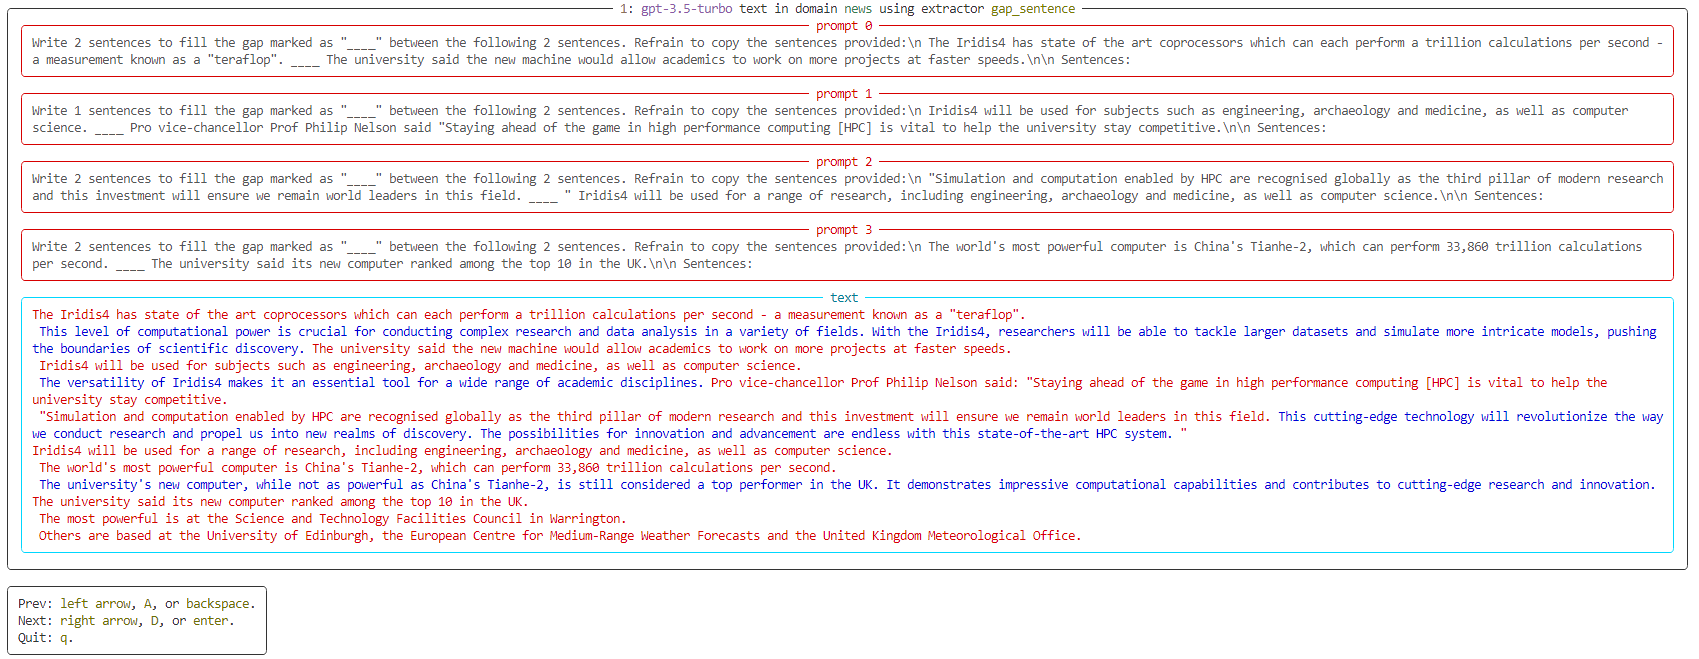
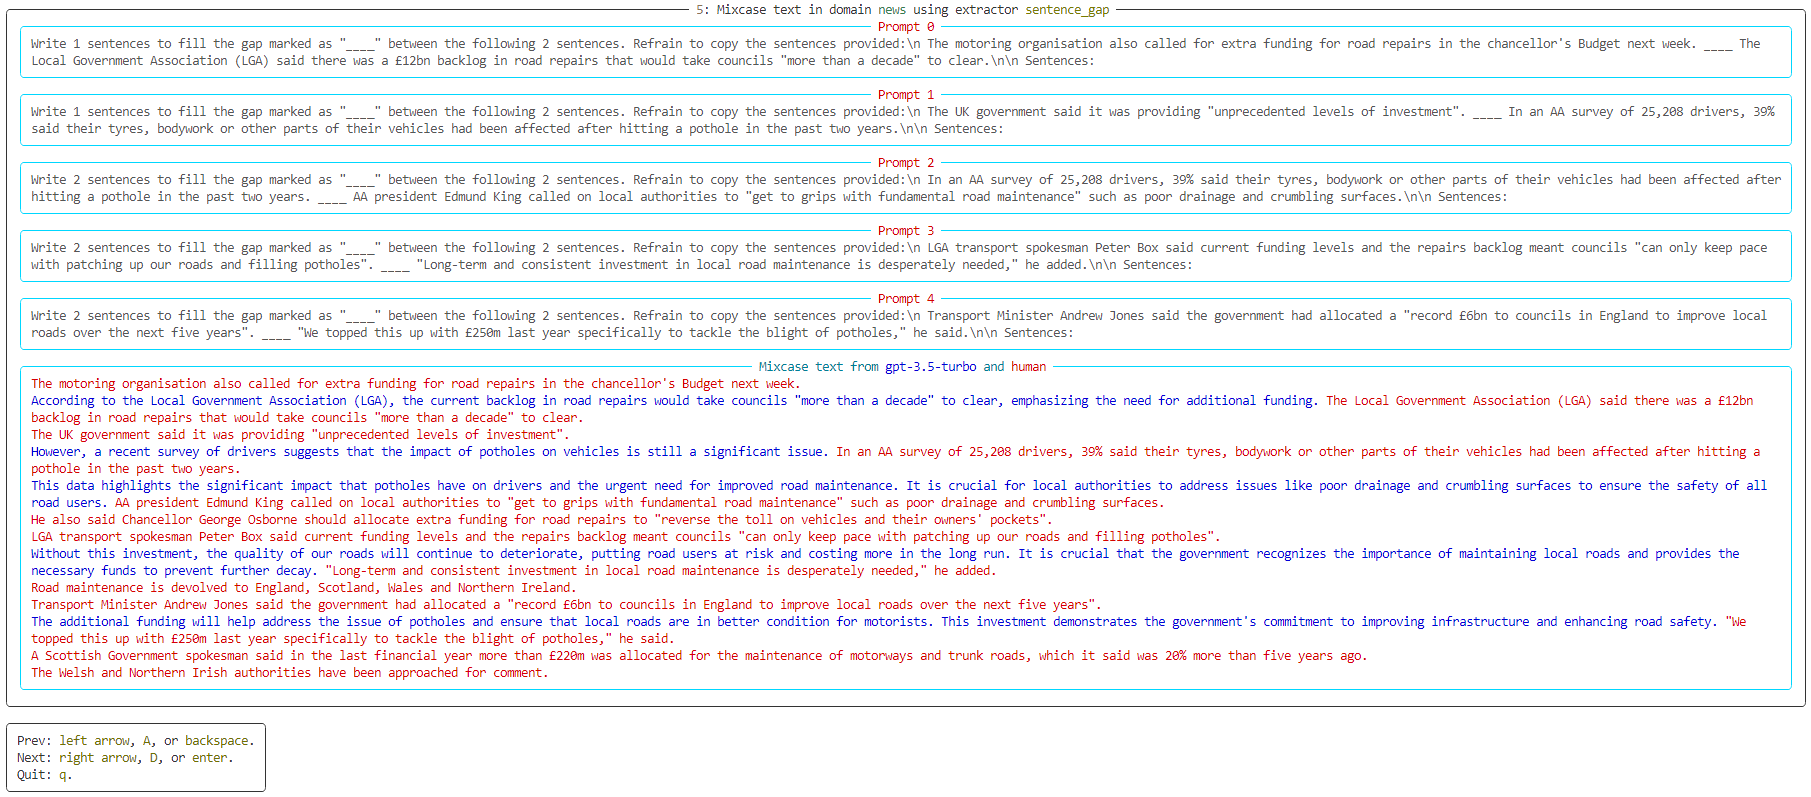
addressed PR reviews

Changed region(s): [[0.0, 0.0, 0.9982, 1.0]]

diff --git a/text_machina/src/metrics/token_classification.py b/text_machina/src/metrics/token_classification.py
@@ -2,6 +2,7 @@ from pathlib import Path
 from typing import Dict, List
 
 import evaluate
+import numpy as np
 import pandas as pd
 from datasets import Dataset, DatasetDict
 from transformers import (
@@ -13,17 +14,19 @@ from transformers import (
 )
 
 from ..common.exceptions import InvalidTaskTypeForMetric
-from ..types import TaskType
+from ..types import DetectionLabels, TaskType
 from .base import Metric
 
 
-def prepare_tags(
+def prepare_tags_for_mixcase(
     offset_mappings: List[List[List[int]]],
     labels: List[List[Dict]],
     label_mapping: Dict[str, int],
 ) -> Dict[str, List[List[int]]]:
     """
-    Prepares the labels for token classification.
+    Prepares the labels for mixcase tasks to be addressed
+    as token classification tasks.
+
     This fn is designed to work with the `map` HF's function
     using `batched=True`.
 
@@ -50,8 +53,44 @@ def prepare_tags(
     return {"labels": tags}
 
 
+def prepare_tags_for_boundary(
+    offset_mappings: List[List[List[int]]],
+    labels: List[int],
+    label_mapping: Dict[str, int],
+) -> Dict[str, List[List[int]]]:
+    """
+    Prepares the labels for boundary tasks to be addressed
+    as token classification tasks.
+
+    This fn is designed to work with the `map` HF's function
+    using `batched=True`.
+
+    Args:
+        offset_mappings (List[List[List[int]]]): offset mappings of each text.
+        labels (List[int): labels of each text.
+        label_mapping (Dict[str, int]): label mapping str to int labels.
+
+    Returns:
+        Dict[str, List[List[int]]]: the tags for each text in the batch.
+    """
+    tags = []
+    for offset_mapping, label in zip(offset_mappings, labels):
+        sample_tags = [-100]
+        for _, char_end in offset_mapping[1:-1]:
+            if char_end <= label:
+                sample_tags.append(label_mapping[DetectionLabels.HUMAN.value])
+            else:
+                sample_tags.append(
+                    label_mapping[DetectionLabels.GENERATED.value]
+                )
+        sample_tags.append(-100)
+        tags.append(sample_tags)
+    return {"labels": tags}
+
+
 def prepare_dataset(
     dataset: Dataset,
+    task_type: TaskType,
     tokenizer: AutoTokenizer,
     test_size: float,
     label_mapping: Dict[str, int],
@@ -76,7 +115,9 @@ def prepare_dataset(
         batched=True,
     )
     dataset = dataset.map(
-        prepare_tags,
+        prepare_tags_for_mixcase
+        if task_type == TaskType.MIXCASE
+        else prepare_tags_for_boundary,
         input_columns=["offset_mapping", "label"],
         batched=True,
         fn_kwargs={"label_mapping": label_mapping},
@@ -133,8 +174,8 @@ def predict(
         model,
         data_collator=collator,
     )
-    predictions = trainer.predict(dataset).label_ids
-    return predictions
+    predictions = trainer.predict(dataset).predictions
+    return np.argmax(predictions, axis=-1)
 
 
 def eval(
@@ -163,7 +204,7 @@ def eval(
         for prediction, label in zip(preds, references)
     ]
 
-    preds = [pred[:-1] for pred in preds]
+    preds = [pred[1:] for pred in preds]
 
     seqeval = evaluate.load("seqeval")
     results = seqeval.compute(predictions=preds, references=refs)
@@ -180,10 +221,12 @@ class TokenClassificationMetric(Metric):
     """
     Implements a HF token classification model
     for evaluating a mixcase dataset.
+
+    Supported tasks: boundary and mixcase.
     """
 
     def _run(self, dataset: Dataset, **kwargs) -> pd.DataFrame:
-        if self.task_type != TaskType.MIXCASE:
+        if self.task_type not in [TaskType.MIXCASE, TaskType.BOUNDARY]:
             raise InvalidTaskTypeForMetric(self.name, self.task_type)
 
         model = AutoModelForTokenClassification.from_pretrained(
@@ -192,8 +235,13 @@ class TokenClassificationMetric(Metric):
         tokenizer = AutoTokenizer.from_pretrained(
             kwargs["model_args"]["pretrained_model_name_or_path"]
         )
+
         dataset = prepare_dataset(
-            dataset, tokenizer, kwargs["test_size"], kwargs["label_mapping"]
+            dataset,
+            self.task_type,
+            tokenizer,
+            kwargs["test_size"],
+            kwargs["label_mapping"],
         )
 
         fit(model, dataset["train"], tokenizer, kwargs["training_args"])

diff --git a/text_machina/src/exploration/mixcase.py b/text_machina/src/exploration/mixcase.py
@@ -22,8 +22,8 @@ class MixCaseExplorer(Explorer):
             panels.append(
                 Panel(
                     escape(prompt),
-                    title=f"[red3]prompt {idx}",
-                    border_style="red3",
+                    title=f"[red3]Prompt {idx}",
+                    border_style="turquoise2",
                     style="white",
                 )
             )
@@ -33,10 +33,17 @@ class MixCaseExplorer(Explorer):
             start, end = label["start"], label["end"]
             color = "[red3]" if label["label"] == "human" else "[blue3]"
             text += color + escape(example["text"][start:end])
+
+        model = example["model"]
+        title = (
+            "[red3]Human[/] text"
+            if model == "human"
+            else f"Mixcase text from [blue3]{model}[/] and [red3]human[/]"
+        )
         panels.append(
             Panel(
                 text,
-                title="[turquoise2]text",
+                title=title,
                 border_style="turquoise2",
                 style="white",
             )
@@ -44,13 +51,12 @@ class MixCaseExplorer(Explorer):
         return panels
 
     def get_title(self, idx: int, example: Dict[str, Any]) -> str:
-        model = example["model"]
+        example["model"]
         domain = example["domain"]
         extractor = example["extractor"]
 
         title = f"[tan]{idx}[/]: "
-        title += f"[violet]{model}[/] text "
-        title += f"in domain [sea_green3]{domain}[/]"
+        title += f"Mixcase text in domain [sea_green3]{domain}[/]"
         title += f" using extractor [yellow]{extractor}"
 
         return title

diff --git a/text_machina/src/extractors/word_gap.py b/text_machina/src/extractors/word_gap.py
@@ -10,7 +10,7 @@ from .base import Extractor
 from .utils import spacy_pipeline
 
 
-class GapWord(Extractor):
+class WordGap(Extractor):
     """
     Extractor that fills the prompt template with a boundary of
     two word spans (left-side and right-side of a sampled word),
@@ -38,7 +38,7 @@ class GapWord(Extractor):
 
     def __init__(self, input_config: InputConfig, task_type: TaskType):
         super().__init__(input_config, task_type)
-        self.args = self.input_config.extractor_args.get("gap_word", {})
+        self.args = self.input_config.extractor_args.get("word_gap", {})
         self.workspace = {
             "positions": [],
             "human_spans": [],
@@ -61,7 +61,7 @@ class GapWord(Extractor):
         boundaries = []
         n_generated_words = []
         for text in texts:
-            words = list([word.text_with_ws for word in text])
+            words = [word.text_with_ws for word in text]
             self.workspace["human_spans"].append(words)
             self.workspace["positions"].append([])
             # If the text has more than one word, it can be used

diff --git a/text_machina/src/extractors/__init__.py b/text_machina/src/extractors/__init__.py
@@ -8,10 +8,10 @@ from .base import Extractor
 from .combined import Combined
 from .dummy import Dummy
 from .entity_list import EntityList
-from .gap_sentence import GapSentence
-from .gap_word import GapWord
 from .noun_list import NounList
+from .sentence_gap import SentenceGap
 from .sentence_prefix import SentencePrefix
+from .word_gap import WordGap
 from .word_prefix import WordPrefix
 
 EXTRACTORS: Mapping[str, Type[Extractor]] = {
@@ -22,8 +22,8 @@ EXTRACTORS: Mapping[str, Type[Extractor]] = {
     "noun_list": NounList,
     "sentence_prefix": SentencePrefix,
     "word_prefix": WordPrefix,
-    "gap_sentence": GapSentence,
-    "gap_word": GapWord,
+    "sentence_gap": SentenceGap,
+    "word_gap": WordGap,
 }
 
 

diff --git a/text_machina/src/extractors/sentence_gap.py b/text_machina/src/extractors/sentence_gap.py
@@ -10,7 +10,7 @@ from .base import Extractor
 from .utils import spacy_pipeline
 
 
-class GapSentence(Extractor):
+class SentenceGap(Extractor):
     """
     Extractor that fills the prompt template with a boundary of
     two sentences (left-side and right-side of a sampled sentence),
@@ -36,7 +36,7 @@ class GapSentence(Extractor):
 
     def __init__(self, input_config: InputConfig, task_type: TaskType):
         super().__init__(input_config, task_type)
-        self.args = self.input_config.extractor_args.get("gap_sentence", {})
+        self.args = self.input_config.extractor_args.get("sentence_gap", {})
         self.workspace = {
             "positions": [],
             "human_spans": [],

diff --git a/text_machina/src/types.py b/text_machina/src/types.py
@@ -1,7 +1,7 @@
 from enum import Enum
 from typing import List
 
-from pydantic import BaseModel
+from pydantic import BaseModel, Field, model_validator
 
 
 class DetectionLabels(Enum):
@@ -48,6 +48,15 @@ class TaskType(str, Enum):
 
 
 class LabeledSpan(BaseModel):
-    start: int
+    start: int = Field(ge=0)
     end: int
     label: str
+
+    @model_validator(mode="after")
+    def check_passwords_match(self) -> "LabeledSpan":
+        if not (self.start < self.end):
+            raise ValueError(
+                "`start` must be lower than `end` in a LabeledSpan"
+                f" (`start`={self.start}, `end`={self.end})"
+            )
+        return self

diff --git a/text_machina/src/exploration/attribution.py b/text_machina/src/exploration/attribution.py
@@ -22,7 +22,7 @@ class AttributionExplorer(Explorer):
             panels.append(
                 Panel(
                     escape(example["prompt"]),
-                    title="[red3]prompt",
+                    title="[red3]Prompt",
                     border_style="red3",
                     style="white",
                 )
@@ -32,7 +32,7 @@ class AttributionExplorer(Explorer):
         panels.append(
             Panel(
                 escape(example["text"]),
-                title="[turquoise2]text",
+                title="[turquoise2]Text",
                 border_style="turquoise2",
                 style="white",
             )

diff --git a/text_machina/src/exploration/detection.py b/text_machina/src/exploration/detection.py
@@ -22,7 +22,7 @@ class DetectionExplorer(Explorer):
             panels.append(
                 Panel(
                     escape(example["prompt"]),
-                    title="[red3]prompt",
+                    title="[red3]Prompt",
                     border_style="red3",
                     style="white",
                 )
@@ -32,7 +32,7 @@ class DetectionExplorer(Explorer):
         panels.append(
             Panel(
                 escape(example["text"]),
-                title="[turquoise2]text",
+                title="[turquoise2]Text",
                 border_style="turquoise2",
                 style="white",
             )

diff --git a/text_machina/src/exploration/boundary.py b/text_machina/src/exploration/boundary.py
@@ -24,7 +24,7 @@ class BoundaryExplorer(Explorer):
         panels.append(
             Panel(
                 text,
-                title="[turquoise2]text",
+                title="[turquoise2]Text",
                 border_style="turquoise2",
                 style="white",
             )
@@ -37,7 +37,7 @@ class BoundaryExplorer(Explorer):
         extractor = example["extractor"]
 
         title = f"[tan]{idx}[/]: "
-        title += f"[violet]{model}[/] text "
+        title += f"[red3]human[/] - [blue3]{model}[/] text "
         title += f"in domain [sea_green3]{domain}[/]"
         title += f" using extractor [yellow]{extractor}"
 

diff --git a/text_machina/src/data.py b/text_machina/src/data.py
@@ -76,7 +76,7 @@ class PromptedDatasetBuilder:
         # Disable random_sample_human automatically for boundary tasks
         if self.config.task_type == TaskType.BOUNDARY:
             _logger.info(
-                "Automatically disabled `random_sample_human`"
+                "Automatically disabling `random_sample_human`"
                 f"for the {TaskType.BOUNDARY.value} task."
             )
             self.config.input.random_sample_human = False

diff --git a/text_machina/src/metrics/simple_model.py b/text_machina/src/metrics/simple_model.py
@@ -19,7 +19,10 @@ from .base import Metric
 
 class SimpleModelMetric(Metric):
     """
-    Implements simple baseline models evaluated with stratified k-fold validation.
+    Implements simple baseline models evaluated with
+    stratified k-fold validation.
+
+    Supported tasks: detection, attribution, and boundary.
     """
 
     def _run(self, dataset: Dataset, **kwargs) -> Dict[int, pd.DataFrame]:

diff --git a/text_machina/src/metrics/repetition_diversity.py b/text_machina/src/metrics/repetition_diversity.py
@@ -13,6 +13,8 @@ class RepetitionDiversityMetric(Metric):
     """
     Implements the repetition and diversity metrics.
     See Sec. 4.1.2: https://arxiv.org/pdf/2202.06417.pdf
+
+    Supported tasks: detection, attribution, and boundary.
     """
 
     def _run(self, dataset: Dataset, **kwargs) -> pd.DataFrame:
